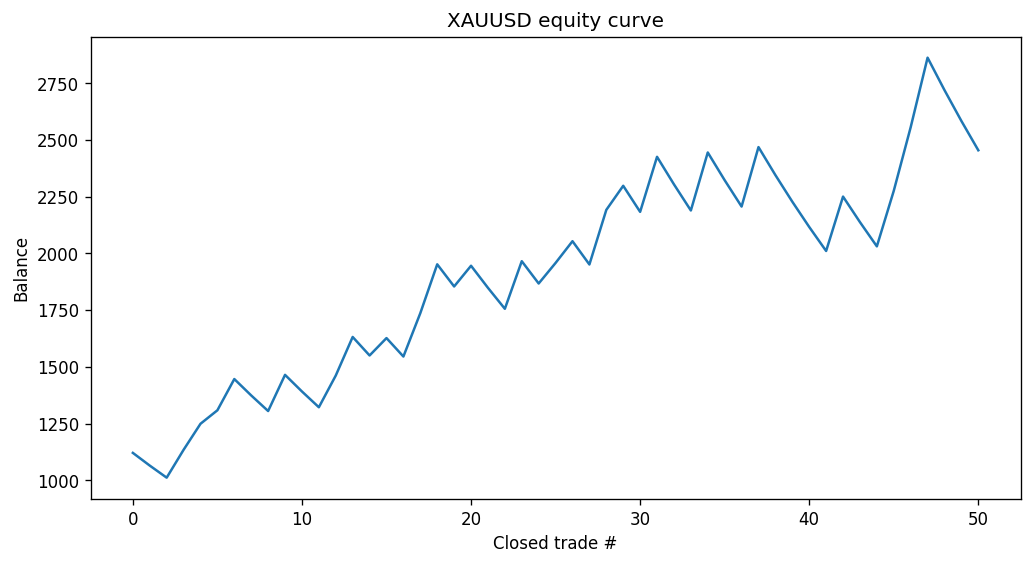
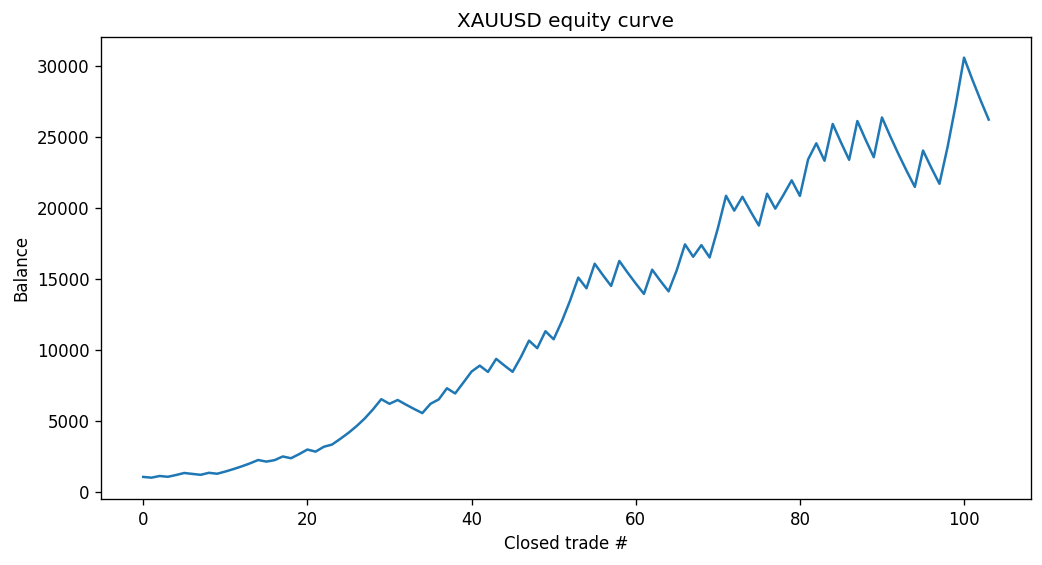
Add files via upload

diff --git a/README.md b/README.md
@@ -258,7 +258,7 @@ configured rather than failing silently.
 | Signal IDs | auto-increment `id` in the `signals` table, shown in every message |
 | Daily / weekly reports | `reports.py`, scheduled from the main loop |
 | Performance analytics (win rate, avg R, best/worst symbol & session) | `store.performance_stats()`, `/stats` |
-| Telegram commands | `commands.py`: `/status /stats /signals /logs /startscan /stopscan /setinterval /reload /restart /ask /help` |
+| Telegram commands | `commands.py`: `/status /stats /signals /logs /startscan /stopscan /scannow /enable /disable /setinterval /reload /restart /ask /help` |
 | Config reload without redeploy | `/setinterval`, `/reload` — operational knobs only, **not** strategy params |
 | Watchdog | `watchdog.py` — hard-restarts the process if no scan completes for `WATCHDOG_MINUTES` |
 | API retry/failover | `fetch_symbol_data()` in `live_bot.py`: ccxt → TwelveData, 3 retries per source |
@@ -268,6 +268,52 @@ configured rather than failing silently.
 | Startup / shutdown messages | `alerts.startup_message` / `shutdown_message` |
 | Signal confluence breakdown | `session.py: confluence_for()` — see note below |
 | Trade outcome tracking (TP/SL/expired) | `outcomes.py`, runs each cycle against the candles already fetched |
+| **Web admin dashboard** | `dashboard.py` + `templates/` — status, controls, performance, signals/errors, equity chart. See below. |
+
+### Web dashboard
+
+A token-gated web UI runs in a background thread inside the same process
+as the live bot loop (no second service, shares the same SQLite `Store`).
+It's read-only except for the same operational knobs already exposed over
+Telegram — scan on/off, scan now, per-symbol enable/disable, poll
+interval. **Nothing on the dashboard can touch `STRATEGY` or how a signal
+is generated.**
+
+**What it shows:** scan status, uptime, memory/CPU, last-scan time,
+restart count · overall + per-symbol win rate/avg R/best-worst breakdown ·
+a cumulative-R equity chart over closed trades · the last 30 signals with
+outcome · the last 20 logged errors.
+
+**What it controls:** pause/resume scanning, force an immediate scan
+cycle, enable/disable a specific market, change the poll interval live —
+each of these is the same `BotState` object the Telegram `/commands` use,
+so a change from one shows up in the other instantly.
+
+**Setup**
+1. `DASHBOARD_ENABLED` defaults to `true`. Set to `false` to disable it
+   entirely (e.g. if you don't want any HTTP surface at all).
+2. Set `DASHBOARD_TOKEN` in your environment to a long random string —
+   without it, a random token is generated each process start and sent to
+   your Telegram admin chat (and logged), so you're never locked out, but
+   the URL you need changes on every restart unless you set it yourself.
+3. On Railway: the `Procfile`/`railway.json` process is named `web` and
+   binds to `$PORT` automatically, but Railway only issues a public URL
+   once you turn on **networking** for the service (Settings → Networking
+   → Generate Domain, or attach a custom domain). Local runs default to
+   port 8080 (`DASHBOARD_PORT` to override).
+4. Open `https://<your-railway-domain>/?token=<your token>` — the token
+   is checked once and then kept in a session cookie, so you don't need
+   to keep it in the URL after the first load.
+5. Uses `waitress` as the WSGI server if installed (it's in
+   `requirements.txt`); falls back to Flask's built-in dev server
+   otherwise, which is fine for a single-operator dashboard but not
+   something to expose at real traffic volume.
+
+**Honest limitations:** single shared token, not per-user accounts — this
+is a personal ops panel, not a multi-tenant product surface. If you're
+planning to eventually offer this as a service to other people, the auth
+model here would need to change (see the plugin-architecture /
+multi-tenant discussion from the roadmap).
 
 **Note on "confidence": your strategy is a hard AND-filter (zone kind +
 premium/discount position + HTF trend all have to align), not a scored